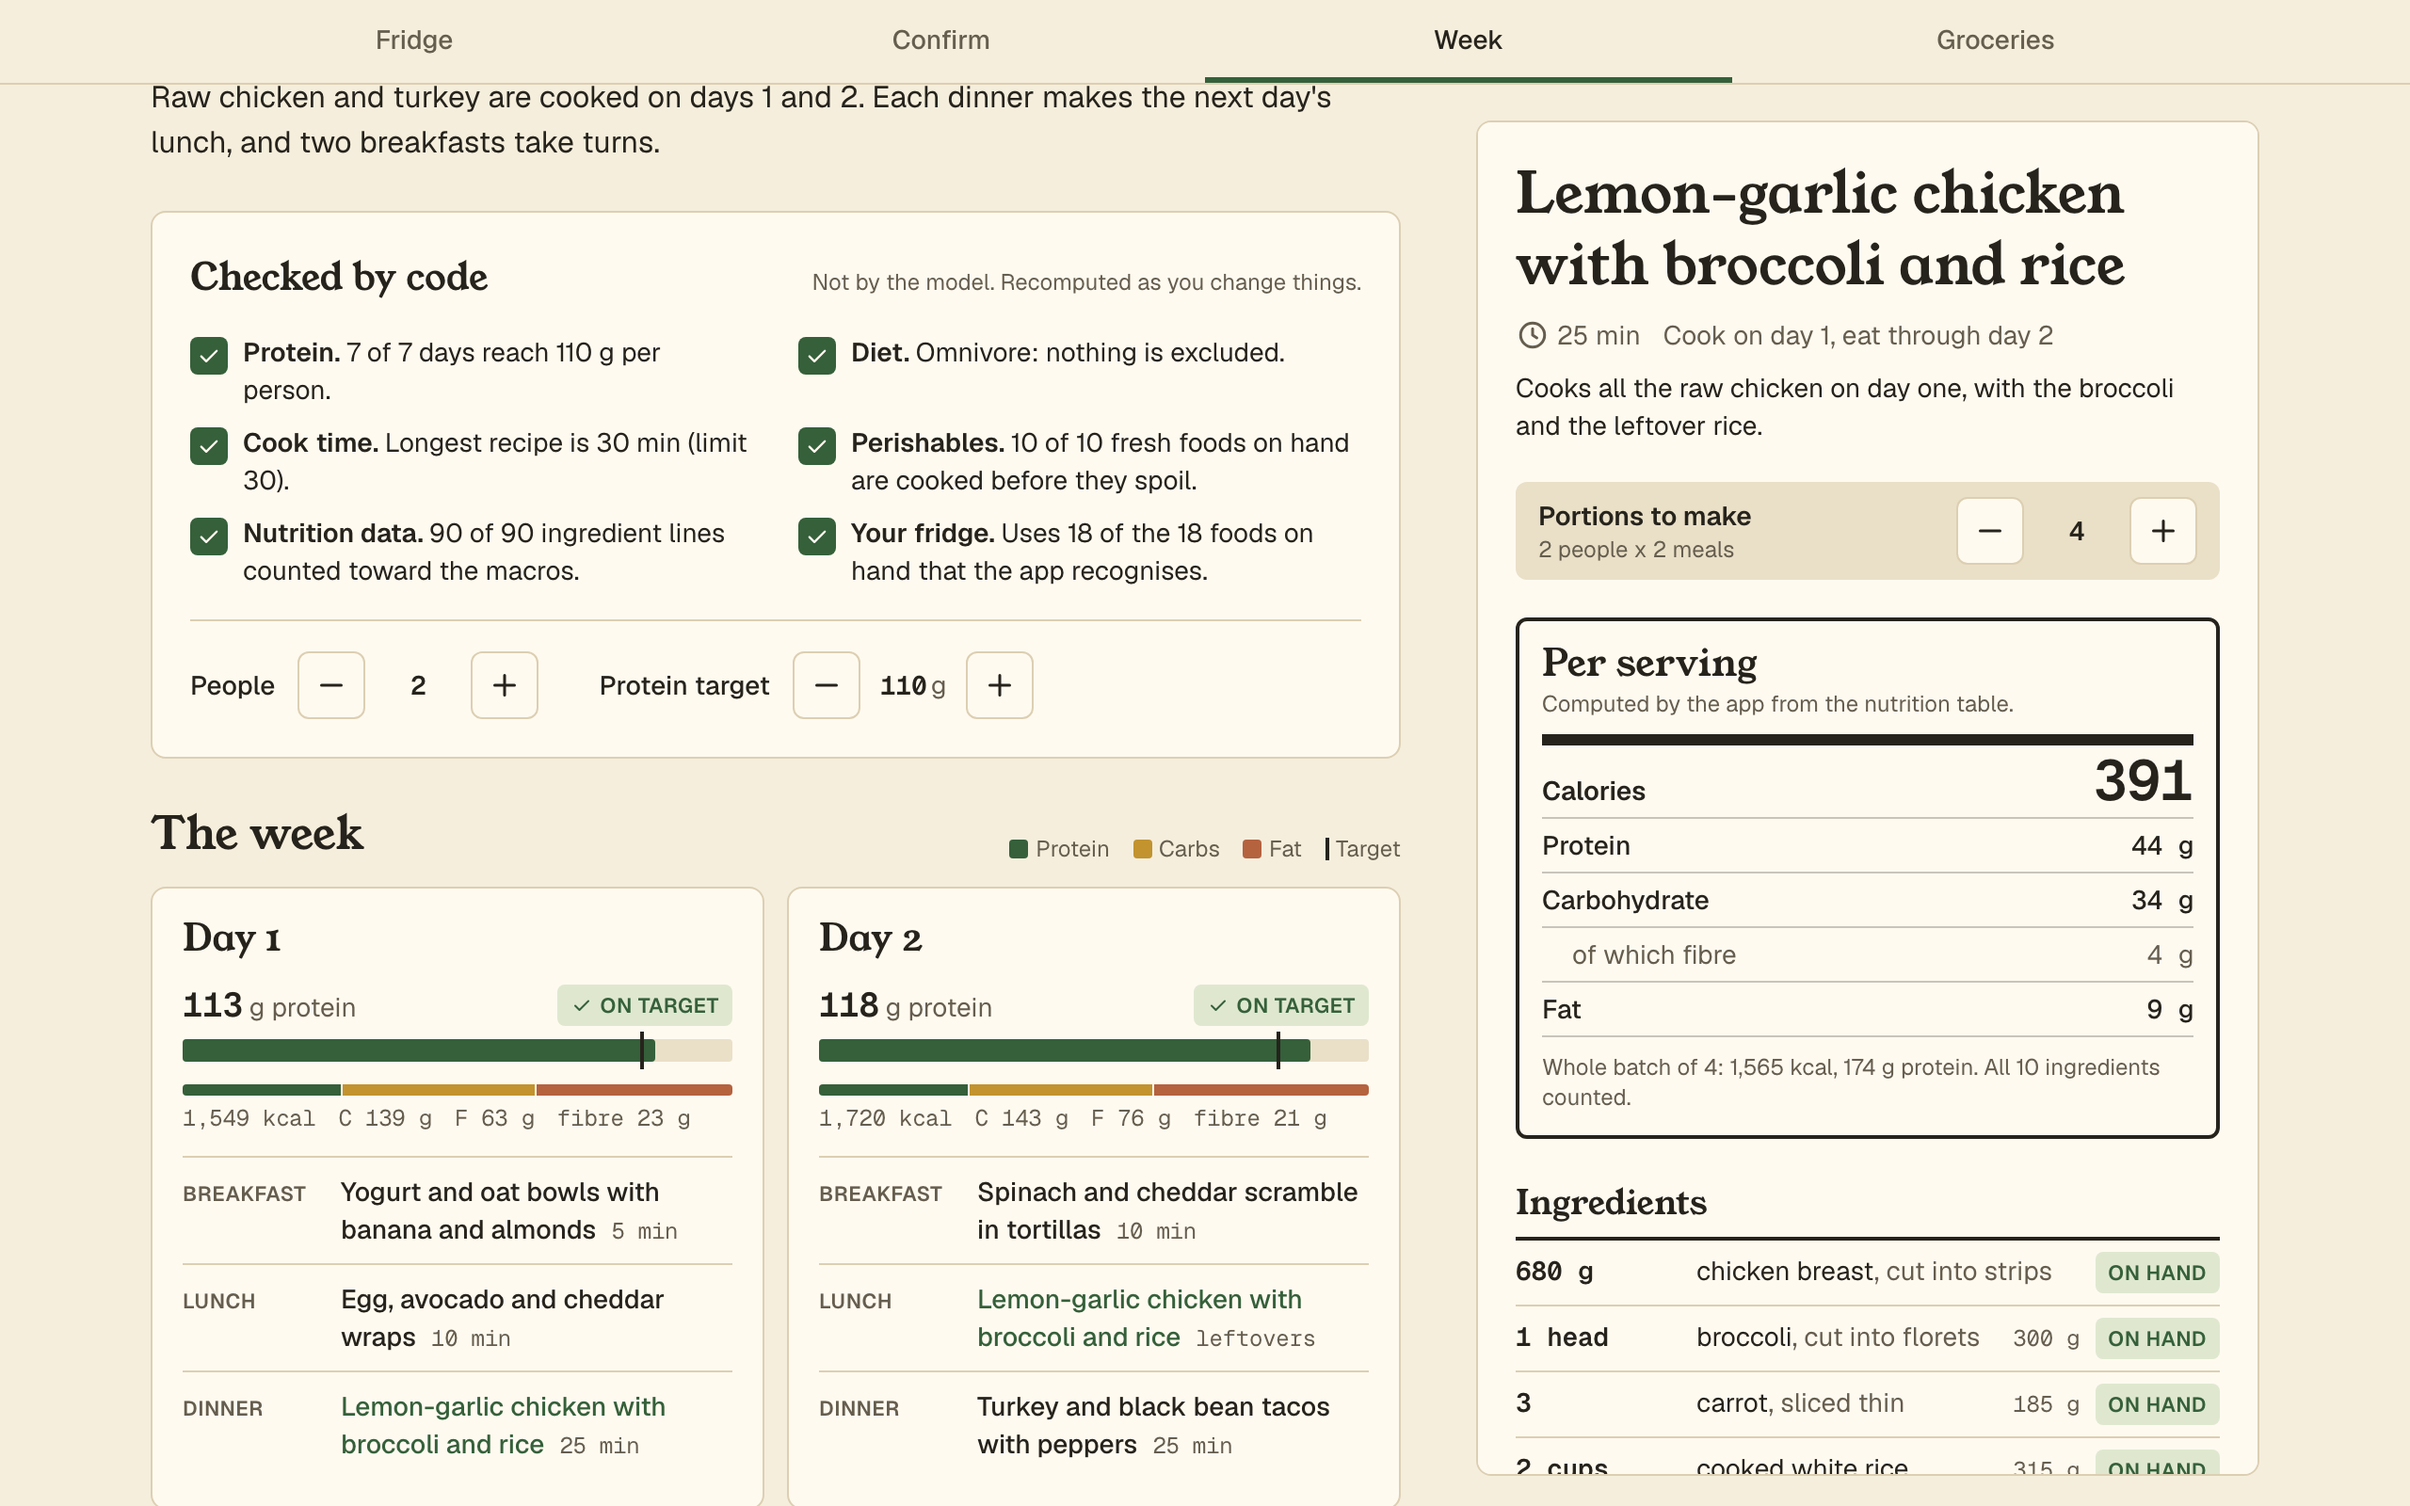
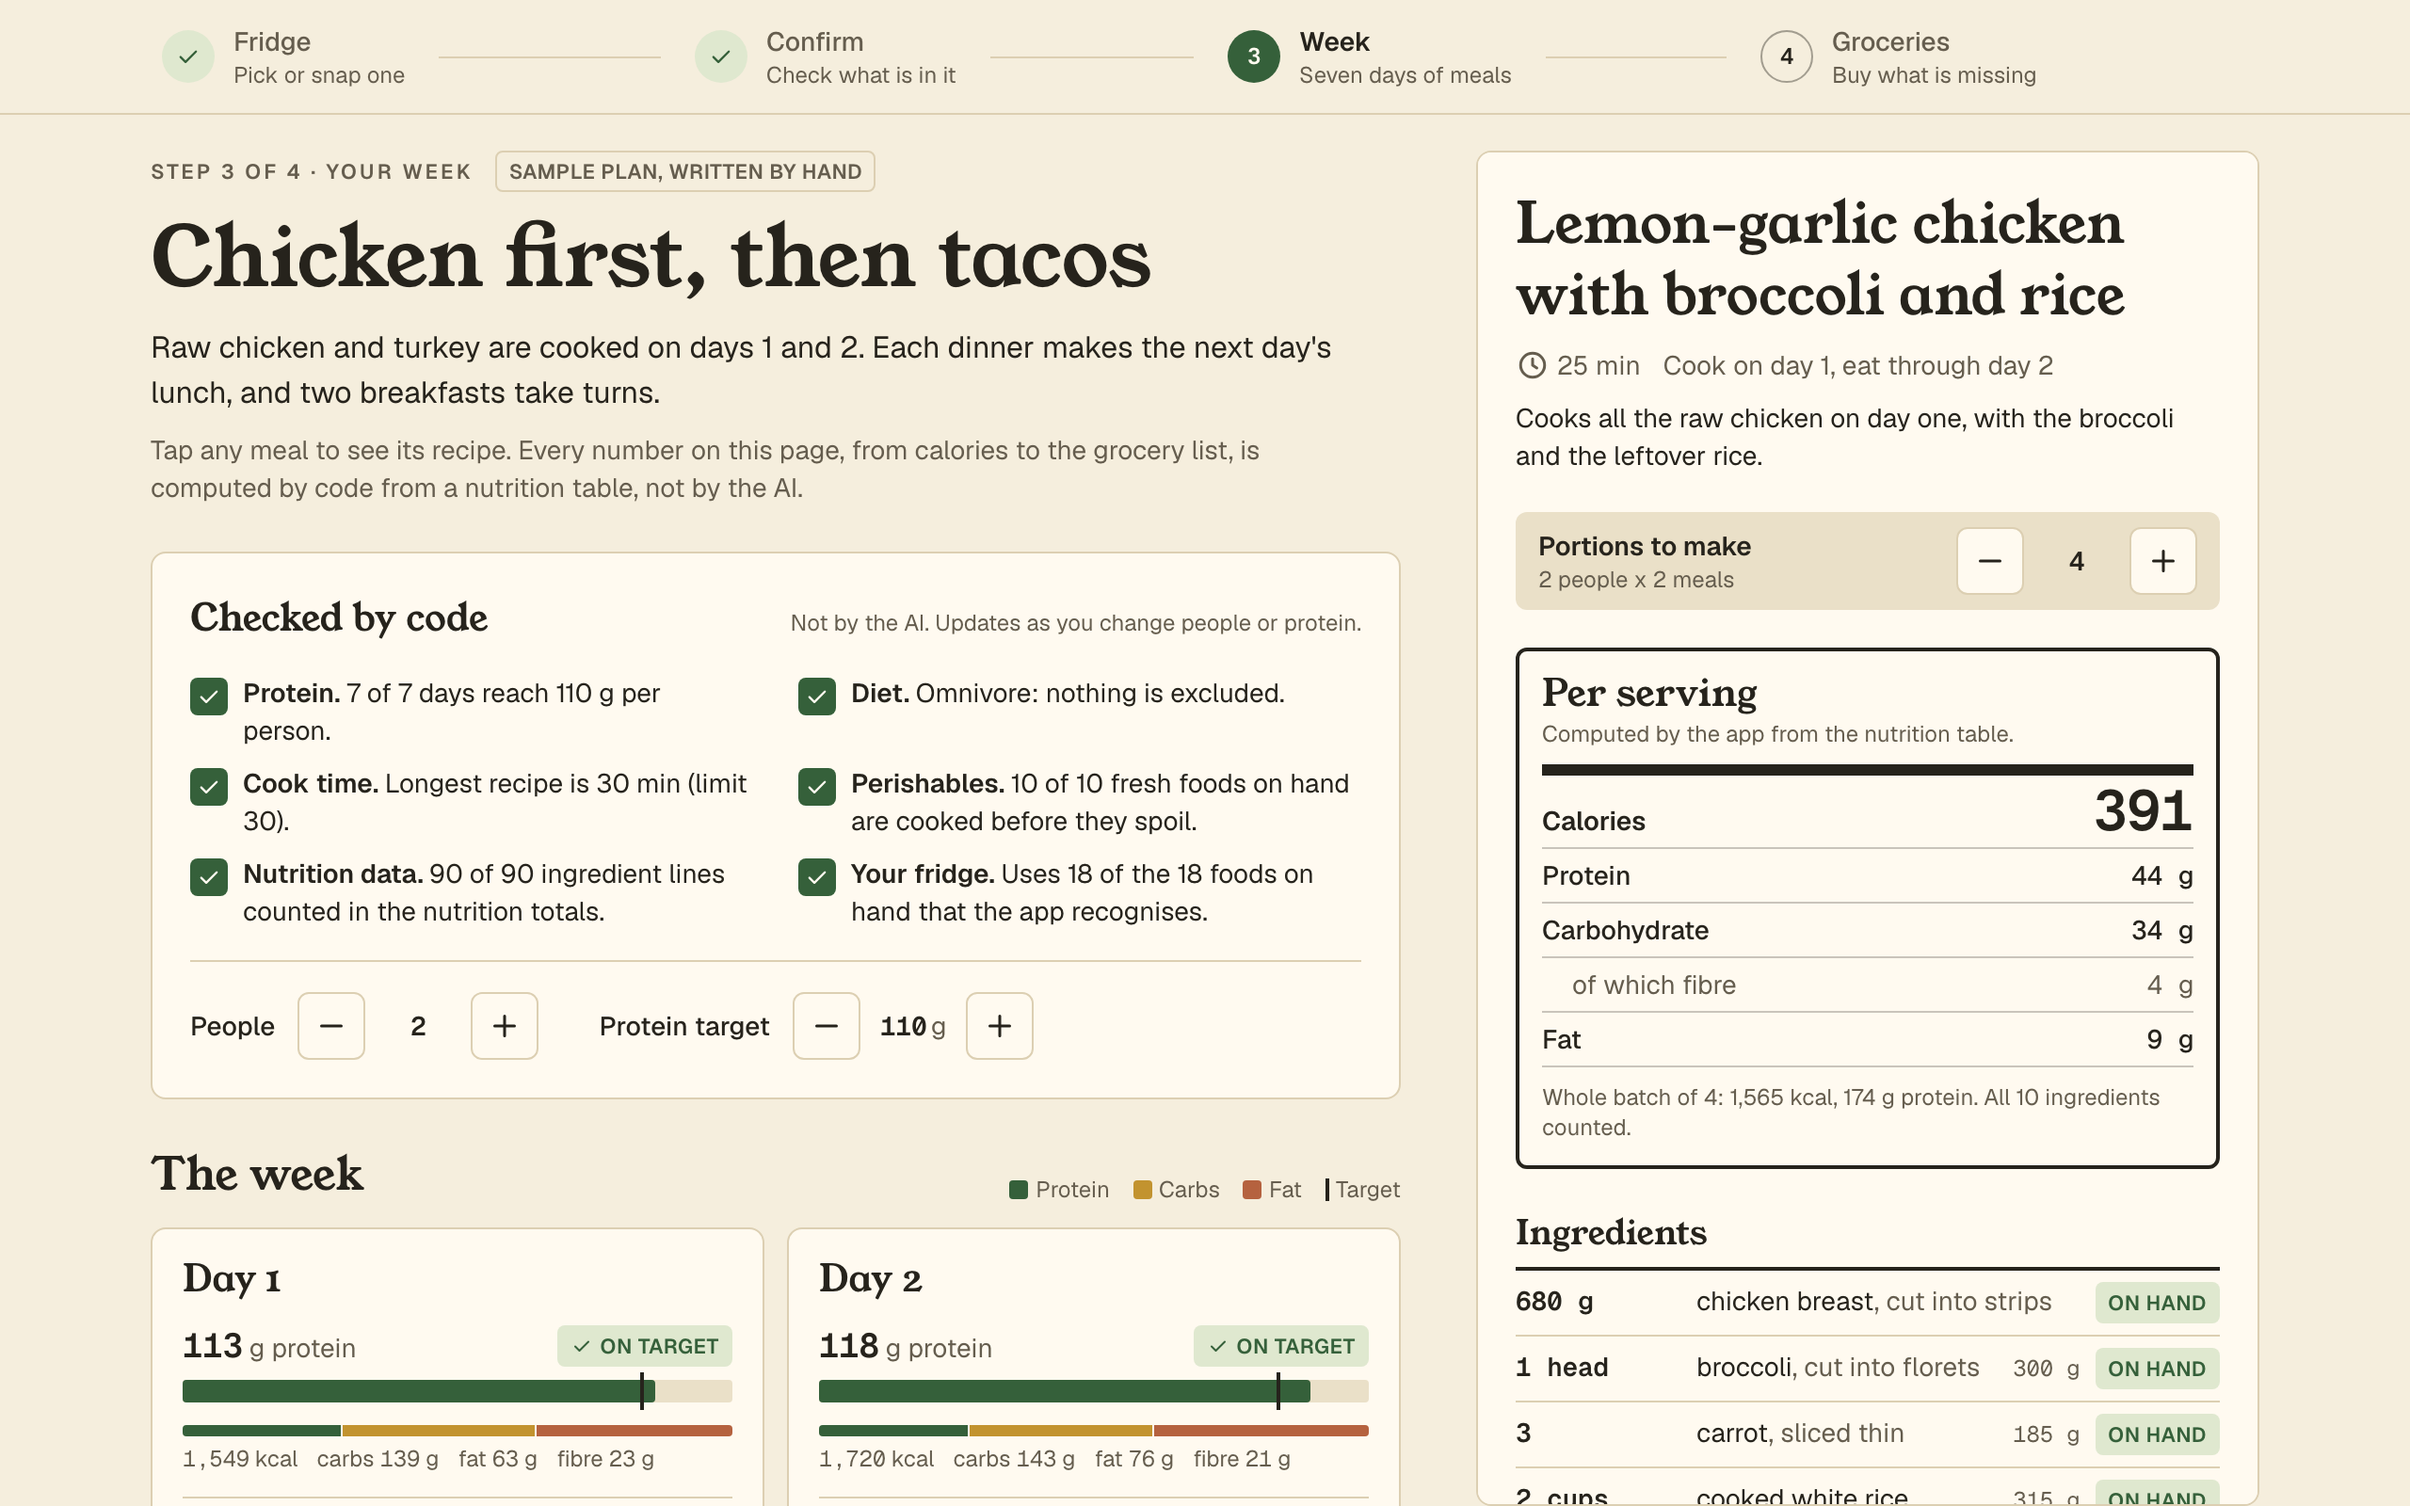
docs: recruiter-first README top, retaken screenshots and a lighter GIF
- Plain pitch, "What it does" bullets, the GIF as the hero with a
  caption, and a "Try it" section that says the live demo is coming
  soon and gives the local commands.
- Replace the dead mise.vercel.app links with the coming-soon badge
  that links to Run locally.
- Retake every screenshot; the GIF now runs from the first screen to a
  ticked grocery list in 2.9 MB (encoder settings in screenshots.json).

diff --git a/README.md b/README.md
@@ -1,20 +1,38 @@
 # Mise
 
-> Photograph your fridge and get a week of meals that use what you have, with macros computed from nutrition data and a grocery list for the gaps.
+> Photograph your fridge and get a week of meals that use what you already have, with the nutrition computed by code (not guessed by AI) and a grocery list for what is missing.
 
 [![CI](https://github.com/davezagin-max/mise/actions/workflows/ci.yml/badge.svg)](https://github.com/davezagin-max/mise/actions/workflows/ci.yml)
 [![License: MIT](https://img.shields.io/badge/license-MIT-blue.svg)](LICENSE)
-[![Live demo](https://img.shields.io/badge/demo-live-brightgreen.svg)](https://mise.vercel.app)
+[![Live demo: coming soon](https://img.shields.io/badge/live%20demo-coming%20soon-lightgrey.svg)](#run-locally)
 
-![The week view: checks computed by code, day cards with protein bars against the target, and a recipe card with its nutrition panel](docs/hero.png)
+![Mise in use: a sample fridge is picked, its ingredient list checked, a seven-day plan opened, a recipe scaled, and the grocery list ticked off](docs/demo.gif)
 
-## Try it in 10 seconds
+_The one-click demo, no key needed: pick a sample fridge, check what is in it, get seven days of meals with the nutrition worked out by code, then a grocery list for the gaps._
 
-**[Open the live demo](https://mise.vercel.app)**: no key, no sign-up. Tap one of the three sample fridges, then **Plan my week**. Open a recipe and change the portions, raise the protein target, and tick things off the grocery list: every number updates in the browser with no request. On a phone it installs to the home screen, and a plan you already have opens with no signal.
+## What it does
 
-Demo data in this commit is hand-written sample output; `pnpm record` replaces it with real Claude Opus 5.5 runs. The app says so wherever that data appears, and the wording switches by itself once real runs are recorded. Add your own Anthropic key in the app to run it live on your own fridge photo.
+- **Reads a photo of your fridge.** Claude Opus 5.5 lists each food it can see, roughly how much there is, and how sure it is. You fix anything it got wrong.
+- **Plans seven days of meals** around your diet, cooking time, household size and protein goal, using up the food that spoils first.
+- **Works out the nutrition in code, not in the AI.** Calories, protein, carbs and fat come from a nutrition table based on USDA data. The AI is never asked for a number.
+- **Writes the grocery list:** what the week needs minus what is already in the fridge, grouped by supermarket aisle.
 
-![The whole flow: sample fridge, confirm the list, week, recipe scaling, grocery list](docs/demo.gif)
+## Try it
+
+The live demo is coming soon. Until then it runs on your own machine with no key and no sign-up (full steps in [Run locally](#run-locally)):
+
+```bash
+pnpm install
+pnpm dev   # then open http://localhost:3180
+```
+
+The animation above is the whole demo. Tap one of the three sample fridges, then **Plan my week**. Open a recipe and change the portions, raise the protein target, and tick things off the grocery list: every number updates in the browser with no request. On a phone it installs to the home screen, and a plan you already have opens with no signal.
+
+**About the demo data.** The AI responses in this commit (each fridge's ingredient list and meal plan) are hand-written examples, not real Claude runs, and the app says so on screen. `pnpm record` replaces them with real Claude Opus 5.5 runs, and the on-screen wording switches by itself. Add your own Anthropic API key in the app to run it live on a photo of your own fridge.
+
+![The week view: seven days of meals, the checks the code ran, and a recipe card with its nutrition panel](docs/hero.png)
+
+_The week view. "Checked by code" lists what the app verified itself (protein per day, diet, cooking time, food used before it spoils); the recipe card on the right scales its amounts and nutrition as you change the portions._
 
 | Dark mode                                     | Grocery list                                                                | On a phone                                                         |
 | --------------------------------------------- | --------------------------------------------------------------------------- | ------------------------------------------------------------------ |
